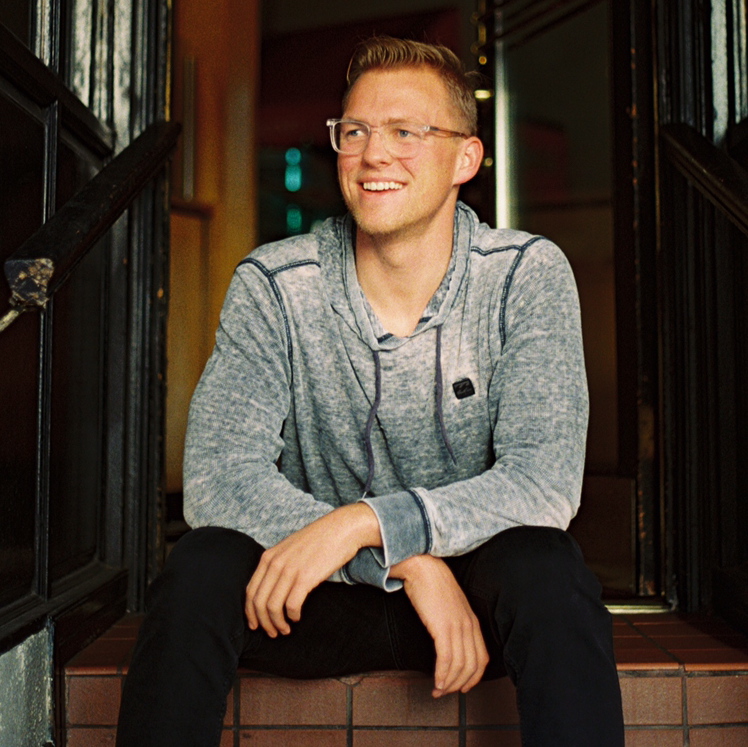
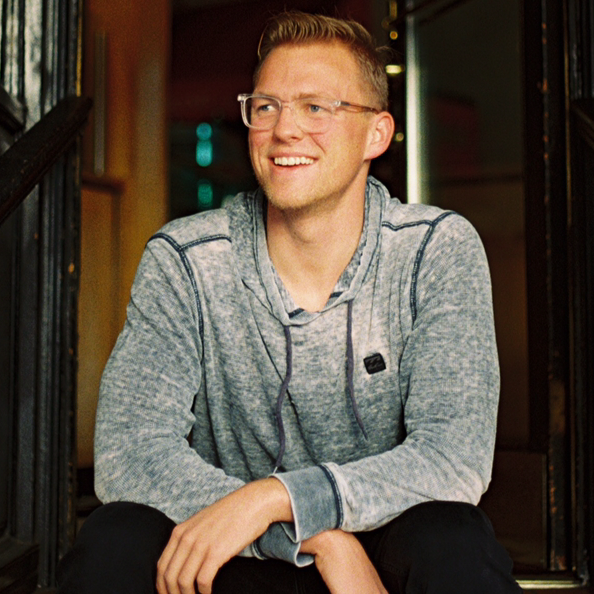
profilePic

diff --git a/client/src/components/pages/Home/Content/Content.css b/client/src/components/pages/Home/Content/Content.css
@@ -4,9 +4,23 @@
 }
 
 .contain {
-    height: 1000px;
     width: 100%;
     perspective: 2px;
+}
+
+.containMargin {
+    margin: 157px 0px 0px 0px;
+}
+
+h2 {
+    position: relative;
+    bottom: 480px;
+    font-size: 4em;
+    font-family: "Allegratta Personal Use Regular";
+    color: white;
+    width: 100%;
+    padding-right: 60px;
+    margin: 0 auto;
 }
 
 .contentDiv {
@@ -48,10 +62,59 @@
     width: 100%;
     box-shadow: inset 0px -200px 300px -50px black;
     position: relative;
-    bottom: 400px;
+    bottom: 500px;
 }
 
 .image {
     width: 100%;
     z-index: -1;
+    background-color: white;
+}
+
+#NYA {
+    opacity: 1;
+    visibility: visible;
+    transition: all 0.7s ease-in-out;
+    transform: translate(0px, 25px);
+}
+
+#FSD {
+    opacity: 1;
+    visibility: visible;
+    transition: all 1.4s ease-in-out;
+    transform: translate(0px, 25px);
+}
+
+#noNYA {
+    opacity: 0;
+    visibility: hidden;
+    transition: all 1.4s ease-in-out;
+}
+
+#noFSD {
+    opacity: 0;
+    visibility: hidden;
+    transition: all 0.7s ease-in-out;
+}
+
+.pTag {
+    visibility: hidden;
+    opacity: 0;
+    height: 100%;
+    color: black;
+    width: 100%;
+    margin: 0 auto;
+    line-height: 7rem;
+    z-index: 10;
+}
+
+.imageP {
+    font-family: "Allegratta Personal Use Regular";
+    font-size: 5em;
+    color: white;
+    width: 50%;
+    height: 100px;
+    position: relative;
+    margin: 0 auto;
+    bottom: 575px
 }

diff --git a/client/src/components/pages/Home/Content/Content.js b/client/src/components/pages/Home/Content/Content.js
@@ -3,21 +3,18 @@ import image1 from "./image1.jpg";
 import "./Content.css";
 
 function Content(props) {
-
-    let style = {
-        margin: "157px 0px 0px 0px",
-    };
-
+console.log(props.scrollValue);
     return (
-        <div className="contain" >
+        <div className={props.scrollValue < 80 ? ("contain") : ("contain containMargin")} >
             <div className="imageDiv parallax bg1" >
-            {props.scrollValue < 80 ? (
                 <img className="image" src={image1} alt="introImage" />
-            ) : (
-                <img className="image" style={style} src={image1} alt="introImage" />
-            )}
+                <div className="imageP">
+                <p id={props.scrollValue > 80 && props.scrollValue < 250 ? ("NYA") : ("noNYA")} className="pTag text-white">Not your average</p>
+                <p id={props.scrollValue > 80 && props.scrollValue < 250 ? ("FSD") : ("noFSD")} className="pTag text-white">Full Stack Developer</p>
+                </div>
                 <div className="lowerGradient"></div>
             </div>
+            <h2>About Me</h2>
         </div >
     );
 }

diff --git a/client/src/components/Title/Title.css b/client/src/components/Title/Title.css
@@ -12,10 +12,11 @@
   z-index: 10;
   height: 160px;
   width: 100%;
+  background-color: black;
 }
 
 .nameFont {
-    opacity: 1;
+    opacity: 0;
     font-family: "Allegratta Personal Use Regular";
     font-size: 4em;
     color: white;
@@ -24,10 +25,10 @@
     position: relative;
     text-decoration: none;
     padding-left: 15px;
-    background-color: black;
 }
 
 .onLoad {
+  opacity: 1;
   transition: all 0.7s ease;
 }
 
@@ -49,6 +50,31 @@ a:hover {
   width: 100%;
   box-shadow: inset 0px 125px 90px -75px black;
   position: relative;
-  top: -8px;
+  top: -9px;
   z-index: 10;
+}
+
+.titleModule {
+  height: 100%;
+  background: rgb(58, 58, 58);
+  color: white;
+  text-align: center;
+  border-radius: 1%;
+}
+
+.titleProfilePic {
+  width: 100%;
+}
+
+.titleModule-border-wrap3 {
+  padding: 1rem;
+  margin-bottom: auto;
+  margin-top: auto;
+  background: linear-gradient(to top right , rgb(109, 109, 255), rgb(255, 98, 77));
+  padding: 5px;
+  border-radius: 1%;
+  box-shadow: 0 10px 30px -6px black;
+  margin: 0 auto;
+  height: auto;
+  width: 10%;
 }

diff --git a/client/src/components/Title/Title.js b/client/src/components/Title/Title.js
@@ -1,5 +1,6 @@
 import React from "react";
 import NavBar from "../NavBar/NavBar.js";
+import profilePic from "../pages/Home/Content/profilePic.PNG";
 import "./Title.css";
 
 function Title(props) {
@@ -11,6 +12,13 @@ function Title(props) {
                 scrollValue={props.scrollValue}
                 />
                 <div className="titleShadow"></div>
+                <div className="profilePicDiv">
+                    <div className="titleModule-border-wrap3">
+                        <div className="titleModule">
+                            <img className="titleProfilePic" src={profilePic} alt="profilePic"/>
+                        </div>
+                    </div>
+                </div>
 
             </div>
         );

diff --git a/client/src/components/NavBar/NavBar.css b/client/src/components/NavBar/NavBar.css
@@ -1,6 +1,5 @@
 
 li {
-    background-color: black;
     margin: 0px 275px;
     color: white;
 }
@@ -49,7 +48,7 @@ nav {
     width: 100%;
     margin: 0 auto;
     text-align: center;
-    background-color: black;
+    background-color: transparent;
     z-index: 10;
 }
 

diff --git a/client/src/components/pages/Home/Home.js b/client/src/components/pages/Home/Home.js
@@ -21,7 +21,6 @@ class Home extends Component {
 
         return (
             <div className="homeDiv">
-            <div></div>
                 <Title
                 scrollValue={this.state.currentScrollHeight}
                 />
